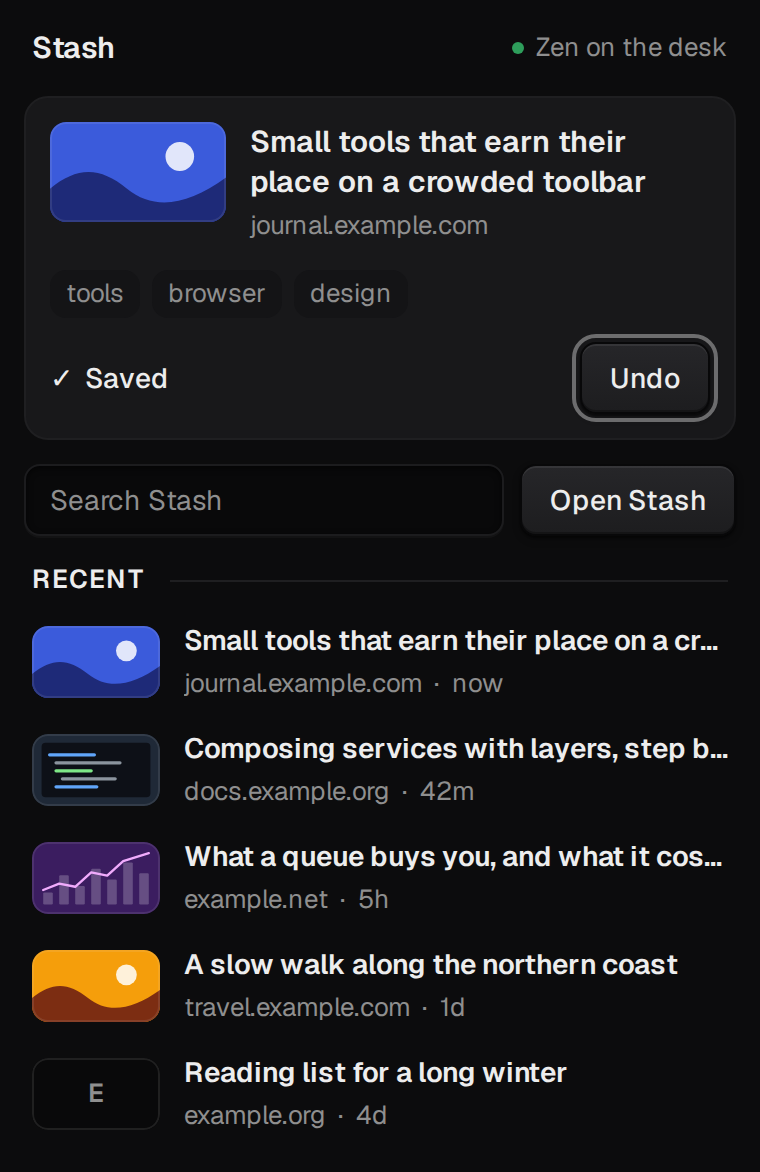
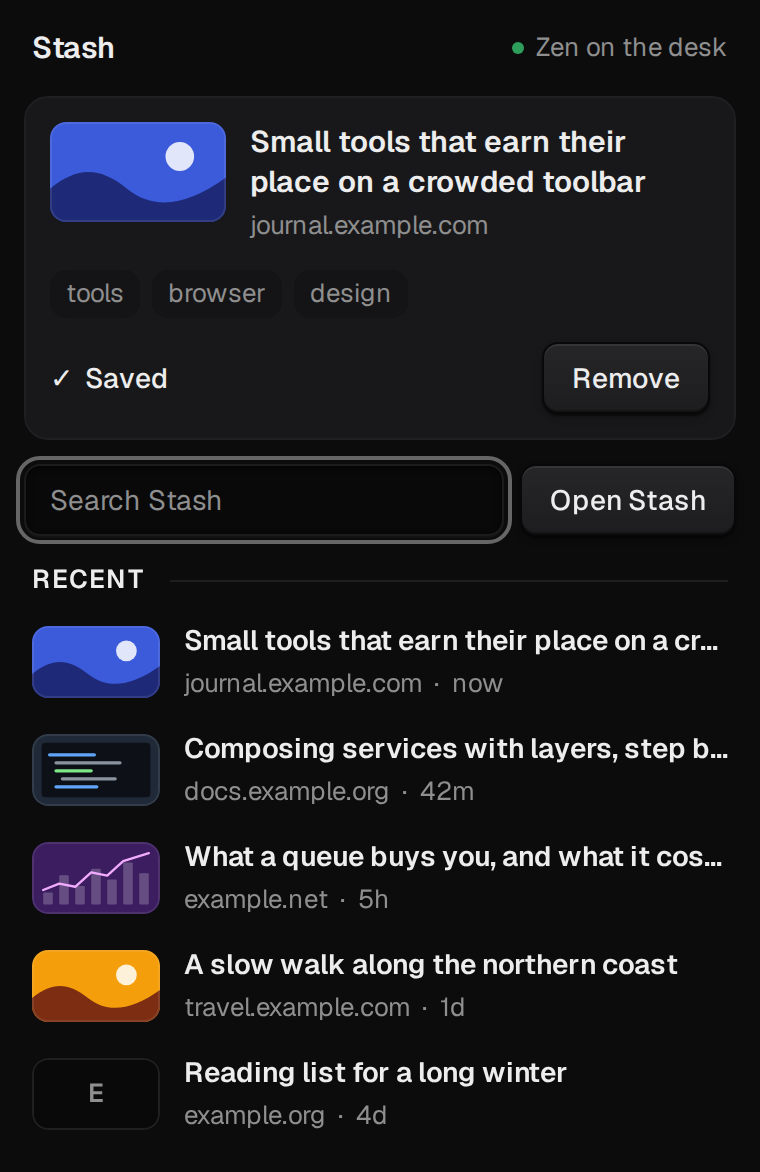
extension popup: never focus Undo, ask before removing an older link (#149)
Undo is a hard DELETE /links/:id. The popup put the keyboard focus on it,
so Enter on a saved page, or Enter twice on a new one, deleted the link.

- The focus is on Save (or Connect) only; once the page is in Stash it goes
  to the search field. A held Enter does not submit the search.
- One-click Undo only for a link this popup's Save just created
  (created: true). Any other saved page shows Remove, which asks first
  (Keep / Remove, focus on Keep).
- test/popup-page.test.ts mounts the page in happy-dom and checks both.
- Saved screenshots retaken.

diff --git a/apps/extension/test/popup-page.test.ts b/apps/extension/test/popup-page.test.ts
@@ -1,0 +1,146 @@
+// @vitest-environment happy-dom
+import * as Link from "@stash/contracts-domain/link";
+import type * as PopupLink from "@stash/ext-popup/popup-link";
+import type * as PopupView from "@stash/ext-popup/popup-view";
+import { enableAutoUnmount, flushPromises, mount } from "@vue/test-utils";
+import { afterEach, describe, expect, it, vi } from "vitest";
+import type * as PopupActions from "../entrypoints/popup/popup-actions.ts";
+import PopupPage from "../entrypoints/popup/popup-page.vue";
+
+// What only the page decides: where the focus goes, and that deleting a link takes a deliberate
+// click. Undo is a hard `DELETE /links/:id`, so Enter must never reach it by itself.
+
+enableAutoUnmount(afterEach);
+
+const page: PopupView.Page = {
+  url: "https://example.com/a",
+  title: "A",
+  host: "example.com",
+  favIconUrl: null,
+  savable: true,
+};
+
+const link: PopupLink.PopupLink = {
+  id: Link.LinkId.make("link-a"),
+  url: "https://example.com/a",
+  title: page.title,
+  host: page.host,
+  imageUrl: null,
+  tags: ["reading"],
+  savedAt: Date.now(),
+  enriched: true,
+};
+
+const connection: PopupView.Connection = {
+  _tag: "Connected",
+  deviceName: "Test browser",
+  webOrigin: "https://stash.example.com",
+};
+
+const mountPopup = async (options: { saved: PopupLink.PopupLink | null; created?: boolean }) => {
+  const actions = {
+    page: vi.fn(async () => page),
+    load: vi.fn(async () => ({
+      connection,
+      saved: options.saved,
+      recent: options.saved === null ? [] : [options.saved],
+    })),
+    save: vi.fn(async () => ({
+      _tag: "Saved" as const,
+      link,
+      created: options.created ?? true,
+    })),
+    undo: vi.fn(async () => ({ _tag: "Removed" as const })),
+    watch: vi.fn(async () => {}),
+    openStash: vi.fn(async () => {}),
+    search: vi.fn(async () => {}),
+    openLink: vi.fn(async () => {}),
+    connect: vi.fn(async () => {}),
+  } satisfies PopupActions.Actions;
+  const wrapper = mount(PopupPage, { props: { actions }, attachTo: "body" });
+  await flushPromises();
+  const focused = () => wrapper.element.ownerDocument.activeElement;
+  /** Enter on the focused element: it activates a button, and does nothing to delete elsewhere. */
+  const pressEnter = async () => {
+    const element = focused();
+    if (element instanceof HTMLButtonElement) element.click();
+    await flushPromises();
+  };
+  const field = () => wrapper.find("input[type=search]").element;
+  return { wrapper, actions, focused, pressEnter, field };
+};
+
+describe("popup page", () => {
+  it("focuses Save on a new page, and the search field once the page is saved", async () => {
+    const { wrapper, actions, focused, pressEnter, field } = await mountPopup({ saved: null });
+    expect(focused()?.textContent?.trim()).toBe("Save");
+
+    await pressEnter();
+    expect(actions.save).toHaveBeenCalledTimes(1);
+    expect(wrapper.find("button[name=undo]").exists()).toBe(true);
+    expect(focused()).toBe(field());
+
+    // Enter again, or a held Enter, does not take the page out again.
+    await pressEnter();
+    await pressEnter();
+    expect(actions.save).toHaveBeenCalledTimes(1);
+    expect(actions.undo).not.toHaveBeenCalled();
+  });
+
+  it("does not let a held Enter run on into the search", async () => {
+    const { actions, field } = await mountPopup({ saved: link });
+    const held = new KeyboardEvent("keydown", { key: "Enter", repeat: true, cancelable: true });
+    field().dispatchEvent(held);
+    expect(held.defaultPrevented).toBe(true);
+    const pressed = new KeyboardEvent("keydown", { key: "Enter", cancelable: true });
+    field().dispatchEvent(pressed);
+    expect(pressed.defaultPrevented).toBe(false);
+    expect(actions.search).not.toHaveBeenCalled();
+  });
+
+  it("undoes a link this popup just created with one click", async () => {
+    const { wrapper, actions, focused } = await mountPopup({ saved: null, created: true });
+    await wrapper.find("button.wide").trigger("click");
+    await flushPromises();
+
+    await wrapper.find("button[name=undo]").trigger("click");
+    await flushPromises();
+    expect(actions.undo).toHaveBeenCalledExactlyOnceWith(link.id);
+    expect(wrapper.find("button[name=undo]").exists()).toBe(false);
+    expect(focused()?.textContent?.trim()).toBe("Save");
+  });
+
+  it("never focuses Remove on a page saved earlier, and asks before deleting it", async () => {
+    const { wrapper, actions, focused, pressEnter, field } = await mountPopup({ saved: link });
+    expect(focused()).toBe(field());
+    expect(wrapper.find("button[name=undo]").exists()).toBe(false);
+    await pressEnter();
+    expect(actions.undo).not.toHaveBeenCalled();
+
+    // Remove only asks. The focus is on Keep, so Enter there deletes nothing either.
+    await wrapper.find("button[name=remove]").trigger("click");
+    expect(actions.undo).not.toHaveBeenCalled();
+    expect(wrapper.text()).toContain("Remove from Stash?");
+    expect(focused()?.textContent?.trim()).toBe("Keep");
+    await pressEnter();
+    expect(actions.undo).not.toHaveBeenCalled();
+    expect(wrapper.find("button[name=remove]").exists()).toBe(true);
+    expect(focused()).toBe(field());
+
+    await wrapper.find("button[name=remove]").trigger("click");
+    await wrapper.find("button[name=confirm-remove]").trigger("click");
+    await flushPromises();
+    expect(actions.undo).toHaveBeenCalledExactlyOnceWith(link.id);
+    expect(wrapper.text()).not.toContain("Saved");
+  });
+
+  it("asks as well when Save found the page in Stash already", async () => {
+    const { wrapper, actions } = await mountPopup({ saved: null, created: false });
+    await wrapper.find("button.wide").trigger("click");
+    await flushPromises();
+    expect(wrapper.find("button[name=undo]").exists()).toBe(false);
+    await wrapper.find("button[name=remove]").trigger("click");
+    expect(actions.undo).not.toHaveBeenCalled();
+    expect(wrapper.find("button[name=confirm-remove]").exists()).toBe(true);
+  });
+});

diff --git a/apps/extension/entrypoints/popup/popup-page.vue b/apps/extension/entrypoints/popup/popup-page.vue
@@ -47,12 +47,21 @@ const usable = (url: string | null | undefined) =>
   url !== null && url !== undefined && !broken.has(url) ? url : null;
 const initial = (host: string) => host.slice(0, 1);
 
+// Save, or Connect: the buttons that may hold the focus, so Enter saves (or connects).
 const primary = ref<HTMLButtonElement | null>(null);
-// The primary button holds the focus, so Enter saves (or connects).
-const focusPrimary = async () => {
+const field = ref<HTMLInputElement | null>(null);
+const keep = ref<HTMLButtonElement | null>(null);
+// Removing is a hard delete, so the focus never lands on it: once the page is in Stash the focus
+// goes to the search field, and Undo or Remove takes a click or a Tab.
+const focusNext = async () => {
   await nextTick();
-  primary.value?.focus();
+  (saved.value === null ? primary.value : field.value)?.focus();
 };
+
+// The link this popup created with its own Save. Only that one has a one-click Undo; a link that
+// was in Stash before has tags and history, so Remove asks first.
+const createdHere = ref<PopupLink.PopupLink["id"] | null>(null);
+const confirming = ref(false);
 
 const replace = (link: PopupLink.PopupLink) => {
   if (saved.value?.id === link.id) saved.value = link;
@@ -76,7 +85,7 @@ onMounted(async () => {
   view.value = loaded;
   saved.value = loaded.saved;
   recent.value = loaded.recent;
-  void focusPrimary();
+  void focusNext();
   if (loaded.saved !== null) void follow(loaded.saved);
 });
 
@@ -90,6 +99,7 @@ const save = async () => {
       return;
     }
     saved.value = result.link;
+    createdHere.value = result.created ? result.link.id : null;
     recent.value = [result.link, ...recent.value.filter((it) => it.id !== result.link.id)].slice(
       0,
       Math.max(recent.value.length, 1),
@@ -97,11 +107,22 @@ const save = async () => {
     void follow(result.link);
   } finally {
     busy.value = false;
-    void focusPrimary();
+    void focusNext();
   }
 };
 
-const undo = async () => {
+const askToRemove = async () => {
+  confirming.value = true;
+  await nextTick();
+  keep.value?.focus();
+};
+const keepIt = () => {
+  confirming.value = false;
+  void focusNext();
+};
+
+/** Deletes the page's link. The template reaches it from Undo, or from the confirmed Remove. */
+const remove = async () => {
   const link = saved.value;
   if (link === null) return;
   busy.value = true;
@@ -113,13 +134,19 @@ const undo = async () => {
       return;
     }
     saved.value = null;
+    createdHere.value = null;
     recent.value = recent.value.filter((it) => it.id !== link.id);
   } finally {
     busy.value = false;
-    void focusPrimary();
+    confirming.value = false;
+    void focusNext();
   }
 };
 
+// A held Enter repeats: after it saved, it must not go on to submit the search.
+const ignoreRepeat = (event: KeyboardEvent) => {
+  if (event.repeat) event.preventDefault();
+};
 const search = () => {
   if (webOrigin.value !== null) void props.actions.search(webOrigin.value, query.value);
 };
@@ -182,16 +209,44 @@ const openStash = () => {
           Connect this browser
         </button>
       </template>
+      <div v-else-if="saved && confirming" class="saved-row" role="group" aria-labelledby="ask">
+        <span id="ask" class="saved">Remove from Stash?</span>
+        <span class="choices">
+          <button ref="keep" class="button tactile-raised" type="button" @click="keepIt">
+            Keep
+          </button>
+          <button
+            class="button tactile-raised danger"
+            type="button"
+            :disabled="busy"
+            name="confirm-remove"
+            @click="remove"
+          >
+            Remove
+          </button>
+        </span>
+      </div>
       <div v-else-if="saved" class="saved-row">
         <span class="saved" role="status"><span aria-hidden="true">✓</span> Saved</span>
         <button
-          ref="primary"
+          v-if="saved.id === createdHere"
           class="button tactile-raised"
           type="button"
           :disabled="busy"
-          @click="undo"
+          name="undo"
+          @click="remove"
         >
           Undo
+        </button>
+        <button
+          v-else
+          class="button tactile-raised"
+          type="button"
+          :disabled="busy"
+          name="remove"
+          @click="askToRemove"
+        >
+          Remove
         </button>
       </div>
       <template v-else>
@@ -211,12 +266,14 @@ const openStash = () => {
 
     <form v-if="webOrigin" class="tools" role="search" @submit.prevent="search">
       <input
+        ref="field"
         v-model="query"
         class="field tactile-sunken"
         type="search"
         placeholder="Search Stash"
         aria-label="Search Stash"
         autocomplete="off"
+        @keydown.enter="ignoreRepeat"
       />
       <button class="button tactile-raised" type="button" @click="openStash">Open Stash</button>
     </form>
@@ -454,6 +511,13 @@ const openStash = () => {
   align-items: center;
   gap: 6px;
   font-weight: 500;
+}
+.choices {
+  display: flex;
+  gap: 8px;
+}
+.button.danger {
+  color: var(--destructive);
 }
 .error {
   margin: 0;

diff --git a/apps/extension/vitest.config.ts b/apps/extension/vitest.config.ts
@@ -1,9 +1,12 @@
+import vue from "@vitejs/plugin-vue";
 import * as VitestBase from "@stash/config-vitest/vitest-base";
 import { defineProject, mergeConfig } from "vitest/config";
 
 export default mergeConfig(
   VitestBase.base,
   defineProject({
+    // For `test/popup-page.test.ts`, which mounts the popup page.
+    plugins: [vue()],
     test: {
       name: "extension",
       include: ["test/**/*.test.ts"],

diff --git a/apps/extension/CLAUDE.md b/apps/extension/CLAUDE.md
@@ -37,6 +37,9 @@ platform services. WXT-generated code is the only exception.
 - The toolbar popup (`entrypoints/popup/`) only shows state and calls its `actions`
   (`popup-actions.ts`, which run `@stash/ext-popup` effects). It pairs nothing itself: "Connect
   this browser" opens the options page, because a popup closes as soon as another tab opens.
+- Removing a link is a hard delete. The popup never puts the focus on Undo or Remove, offers the
+  one-click Undo only for a link its own Save just created (`created: true`), and asks before
+  removing any other.
 - Pages look like the web app. `assets/tokens.css` is a copy of the web design tokens
   (`packages/web/ui/src/styles.css`); keep the values in step by hand, never import `@stash/web-*`.
   Light and dark follow `prefers-color-scheme`.
@@ -44,7 +47,8 @@ platform services. WXT-generated code is the only exception.
 ## Testing
 
 Minimal wiring tests: entrypoints build their layers with `@stash/ext-platform/testing`. Feature
-behavior is tested in `packages/extension/*`.
+behavior is tested in `packages/extension/*`. The popup page has one page test for what only the
+page decides: the focus and the confirmation before a delete.
 
 ## File naming
 
@@ -58,7 +62,9 @@ behavior is tested in `packages/extension/*`.
 - The toolbar popup is `entrypoints/popup/` (`index.html`, `main.ts`, `popup-page.vue`,
   `popup-actions.ts`). `preview/popup/` mounts the same page over made-up states for the
   screenshots; it is not an entrypoint and is not in the build.
-- `test/background.test.ts`, `test/save-config.test.ts`, `test/popup-actions.test.ts`
+- `test/background.test.ts`, `test/save-config.test.ts`, `test/popup-actions.test.ts`,
+  `test/popup-page.test.ts` (mounts the page in happy-dom over fake `actions`: where the focus goes,
+  and that removing a link takes a deliberate click)
 
 ## Commands
 

diff --git a/apps/extension/README.md b/apps/extension/README.md
@@ -74,8 +74,11 @@ popup:
 | <img src="../../docs/screenshots/extension-popup-not-paired-light.png" width="380"> | <img src="../../docs/screenshots/extension-popup-paired-light.png" width="380"> | <img src="../../docs/screenshots/extension-popup-saved-light.png" width="380"> |
 | <img src="../../docs/screenshots/extension-popup-not-paired-dark.png" width="380"> | <img src="../../docs/screenshots/extension-popup-paired-dark.png" width="380"> | <img src="../../docs/screenshots/extension-popup-saved-dark.png" width="380"> |
 
-- **This page** with **Save**. The button has the focus, so <kbd>Enter</kbd> saves. A page that is
-  in Stash already (`GET /links?url=…`) shows **Saved** and **Undo**, which deletes the link. After
+- **This page** with **Save**. The button has the focus, so <kbd>Enter</kbd> saves. Once the page
+  is saved the focus is in the search field, so no key press deletes anything by accident. Right
+  after a save the popup shows **Saved** and **Undo**, which deletes the link it just created. A
+  page that was in Stash already (`GET /links?url=…`) shows **Saved** and **Remove**, which asks
+  first (**Keep** / **Remove**). After
   a save the popup asks for the link every 2 seconds, for up to 40, and shows its tags and preview
   when enrichment is done.
 - **Search Stash**: type and press <kbd>Enter</kbd> to open `<stash>/search?q=…`. **Open Stash**
